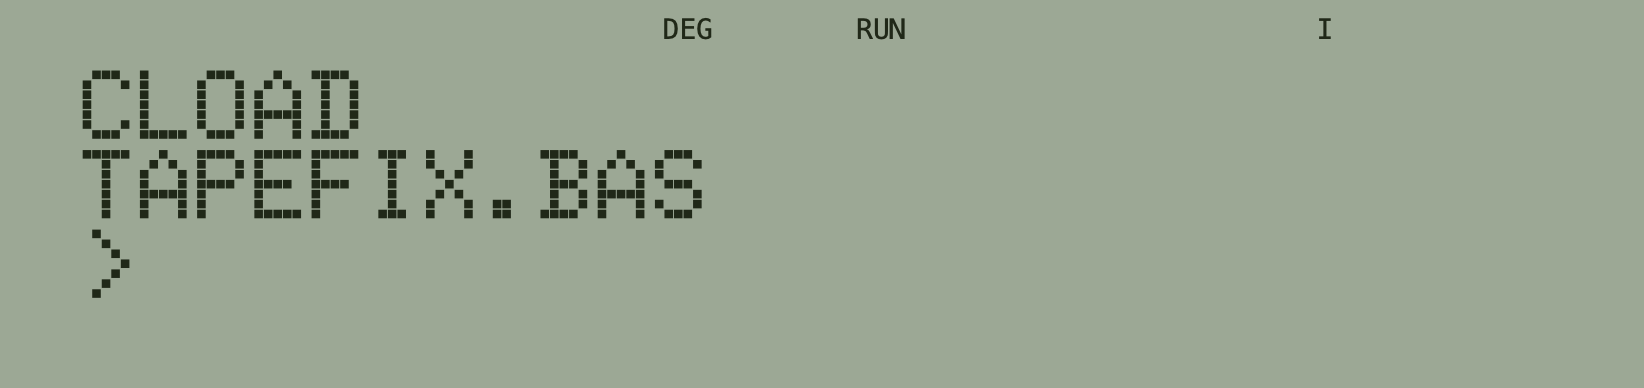
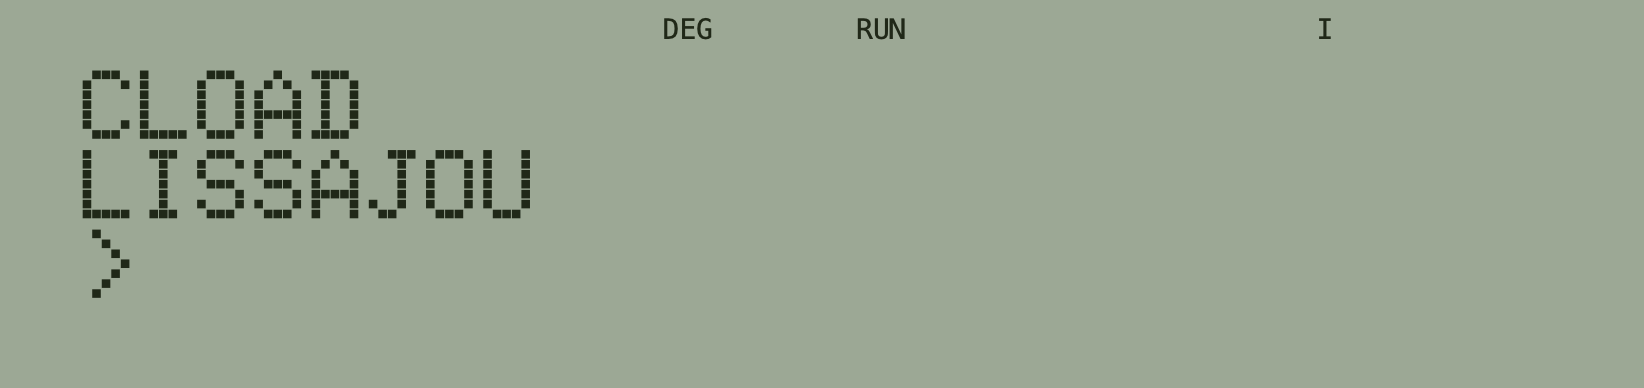
Docs: the cassette bay in the guide, plan, decisions; screenshots
User Guide 4 describes the bay (pick to play, save to record, saved at
each motor stop) with new screenshots that record and then play a tape;
Settings lists Storage > Tapes. Screenshots regenerated: the Tape group
shows wherever a CE-150 / CE-1600P is attached, and widens the window
to ~1758 px -- an open item in TODO.md.

Changed region(s): [[0.031, 0.3711, 0.4343, 0.5876]]

diff --git a/docs/background/plans/Tape-Bay-Plan.md b/docs/background/plans/Tape-Bay-Plan.md
@@ -1,0 +1,112 @@
+# Tape as control-bar media (like cards and floppies)
+
+> **Status (2026-10-04): implemented.** Differences from the plan below:
+> the scenario shot runner gained an `accept` step (and `select:` now also
+> emits `activated`), and the tape combo reacts to `activated`, so picking
+> the recording tape it already shows puts it in to play.
+
+
+## Context
+
+The cassette recorder works (CLOAD/CSAVE, verified against real PC-1500 and
+PC-1600 recordings), but it's armed through file dialogs (File ▸ Tape ▸
+Play… / Record… / Eject, also behind the control bar's Tape button). That's
+unlike the other media: memory cards and floppies are picked on the control
+bar from a fixed folder, with a one-line Name & Save. The dialog route also
+caused the focus problem fixed in 5110f1a. The user wants tapes to follow
+the media pattern:
+
+- A fixed **tape folder** with a row in Settings ▸ Storage; default
+  `<save folder>/Tapes` (e.g. `~/Calc-U-1600/Tapes`).
+- The bay starts **empty**. The **drop-down** lists the folder's WAVs;
+  picking one loads it **for playing** (CLOAD). A **Save** button asks for
+  a name (the floppy Name & Save one-liner) and loads a blank tape **for
+  recording** (CSAVE). An existing name asks, then overwrites.
+- **The role stays fixed**: a tape picked in the drop-down is play-only;
+  CSAVE never writes to it. The ▶/● counter already shows the role.
+- **Auto-save on motor-off**: when the remote relay stops the motor during
+  a recording, the WAV is written (whole). Eject only un-arms. While the
+  tape stays armed, each further CSAVE appends and is saved again at its
+  motor-off.
+- **File ▸ Tape is removed**, with its file dialogs. A future "File ▸ Load
+  WAV" fast load (needs WAV support in sde) is a separate feature.
+
+Tape behaviour otherwise stays as is: playback continues from where the
+motor stopped; a machine rebuild ejects (nothing is lost, since recordings
+are saved at each motor-off).
+
+## Core: `Core/Tape/TapeDeck.hpp`
+
+- `setMotor(false)` while recording with a path and unsaved samples →
+  write the whole recording (`writeWavMono16`). Keep a "saved up to
+  sample N" mark so a second motor-off without new data doesn't rewrite.
+- `eject()` → writes only if something is unsaved (e.g. Eject while the
+  motor still runs mid-CSAVE), then un-arms. Return value/`error` unchanged.
+- A failed auto-save can't return an error (it happens inside emulation):
+  store it as `lastError` in `Status`, cleared when read
+  (`takeLastError()`), so the GUI can show it once.
+- Machines: `PC1500Machine` / `PC1600Machine` `tapeStatus()` already lock;
+  add a locked `tapeTakeLastError()` beside `tapeEject()`.
+- CLIs (`--tape-out`) keep working; their final eject now usually finds
+  nothing unsaved.
+
+## GUI
+
+- **`Qt6/app/AppSettings.hpp` / `AppPaths.{hpp,cpp}`:** `tapeDirOverride`
+  setting, `AppPaths::tapeDir()` = override or `instanceDir()/Tapes`
+  (created on demand), following `instanceDir()` / `instanceDirOverride()`.
+  Remove `OpenFolder::Tape` and its General row.
+- **`Qt6/app/SettingsDialog.cpp`:** Storage gets a "Tapes:" path row (same
+  `PathRowSpec` as "Battery-card saves").
+- **New `Qt6/app/TapeManager.{hpp,cpp}`** (pattern: `FloppyDiskManager`):
+  - `tapeNames()`: the `*.wav` in `tapeDir()`, sorted, without extension.
+  - `selectForPlay(name)` → `controller->tapePlay(path)`; `""` →
+    `tapeEject()`.
+  - `recordNew(name, error)`: validates the name (same rules as Name &
+    Save: non-empty, file-name safe), returns "exists" so MainWindow can
+    ask; then `tapeRecord(path)`.
+  - Holds the current tape name and role for the combo; emits
+    `errorMessage` for write failures (polled `tapeTakeLastError()`).
+  - `MachineController::tapePlay/tapeRecord/tapeEject/tapeStatus` stay;
+    `discardMachine()` keeps ejecting (now cheap).
+- **`Qt6/app/ControlBar.{hpp,cpp}`:** replace the Tape menu button with
+  `Tape: [combo] [save button] ▶ 0:12 ●` (objectNames `controlbar.tape`,
+  `controlbar.tape.save`, `.counter`, `.lamp`), all `NoFocus`.
+  `setTapeCombo(names, selected)` via the existing `fillPicker()`
+  ("–empty–" first). While recording, the combo shows the recording tape's
+  name (added to the list if its file doesn't exist yet). Remove
+  `setTapeActions()`.
+- **`Qt6/app/MainWindow.{hpp,cpp}`:** wire combo → `selectForPlay`, save
+  button → `QInputDialog::getText` (as `floppyNameAndSaveRequested`),
+  "exists" → `QMessageBox::question` to replace. Refresh the combo after
+  each motor-off save and on `syncPeripherals()`. Remove File ▸ Tape,
+  `playTape/recordTape/ejectTape`, `ReturnFocusToCalculator`,
+  `syncTapeActions()`; `closeEvent` still ejects.
+
+## Docs and screenshots
+
+- `docs/User-Guide.md` §4 "Cassette tape": rewrite for the bar (pick a
+  tape to play, Save to record, auto-save at motor-off, append while armed,
+  fixed roles); Settings §9.1: "Tapes" under Storage instead of General.
+- `docs/developer/screenshots/guide/04-basic.shots.yaml`: the shot run uses
+  an empty save folder, so record first, then play: click
+  `controlbar.tape.save`, `enter-text` a name, `type: CSAVE`, `run`, then
+  `select: controlbar.tape = <name>`, `type: CLOAD`, capture. Regenerate
+  04 and 09 (Settings) images. Update the README's widget-name table.
+- `docs/background/Decisions.md`: tapes are fixed-role media; auto-save at
+  motor-off; eject only un-arms.
+- CHANGELOG entry adjusted (no File ▸ Tape).
+
+## Verification
+
+- `tools/run_tests.sh`: `tape_deck_tests` gains motor-off auto-save
+  (file written at motor-off, appended and rewritten at the next one, no
+  rewrite without new data, eject writes only unsaved data, write error
+  reported once); ROM tape tests unchanged.
+- `tools/build_app.sh` builds; both tape matrices still pass
+  (`dev/tape-matrix/run.py pc1500|pc1600`).
+- GUI via the 04-basic scenario (record → auto-saved file appears in the
+  combo → select → CLOAD shows the program) and by hand: Save over an
+  existing name asks; picking a tape while recording un-arms it (file
+  already saved); Settings ▸ Storage "Tapes" changes the list.
+- Commit to dev-0.8.0 in steps (Core, GUI, docs).

diff --git a/docs/User-Guide.md b/docs/User-Guide.md
@@ -287,22 +287,33 @@ Good to know:
 ### Cassette tape: CLOAD and CSAVE
 
 The CE-150 (PC-1500/1500A) and the CE-1600P (PC-1600) have the jacks of a
-cassette recorder. In the app the recorder plays and records WAV files.
-You put a tape in, then type the command as on the real machine:
+cassette recorder. In the app its tapes are WAV files in the tape folder
+(Settings ▸ Storage ▸ Tapes, `~/Calc-U-1600/Tapes` by default), and the
+cassette bay sits on the control bar while a CE-150 or CE-1600P is
+attached. It starts empty. You put a tape in, then type the command as on
+the real machine:
 
-- **File ▸ Tape ▸ Play…** (or the **Tape** button on the control bar) puts
-  a WAV in the recorder. Type `CLOAD`, `CLOAD "name"`, `CLOAD M` or
-  `CLOAD?`.
-- **File ▸ Tape ▸ Record…** puts in a blank tape and asks where its WAV
-  goes. Type `CSAVE "name"` (or `CSAVE M`). The WAV is written when you
-  choose **Eject**. Switching the model or ROM, loading a preset, or
-  quitting ejects the tape too, so a recording is never lost.
+- **To load,** pick a tape from the **Tape** list. It goes in rewound.
+  Type `CLOAD`, `CLOAD "name"`, `CLOAD M` or `CLOAD?`. A second `CLOAD`
+  reads on from where the first one stopped, as on a real tape.
+- **To save,** click the save button next to the list and name the new
+  tape, as with Name & Save for cards and disks. Type `CSAVE "name"` (or
+  `CSAVE M`). The tape is written to `<name>.wav` each time the motor
+  stops, so a finished `CSAVE` is saved at once. Another `CSAVE` onto the
+  same tape goes after it. If a tape of that name exists, you're asked
+  before it is replaced.
 
-The Tape button appears while a CE-150 or CE-1600P is attached. Next to
-it, the counter shows ▶ (playing) or ● (recording) and the tape position,
-and the lamp lights while the motor runs:
+![Naming a new tape](images/guide/04-tape-save.png)
 
-![CLOAD running: the tape counter and the motor lamp](images/guide/04-tape-loading.png)
+A tape keeps its role: one picked from the list only plays, a new one only
+records. To play back what you recorded, pick it from the list; that also
+takes the recording tape out. "–empty–" takes a tape out. The counter
+shows ▶ (playing) or ● (recording) and the tape position, and the lamp
+lights while the motor runs:
+
+![CSAVE running onto a new tape](images/guide/04-tape-recording.png)
+
+![CLOAD running from the same tape, picked from the list](images/guide/04-tape-loading.png)
 
 ![The program loaded from the tape](images/guide/04-tape-loaded.png)
 
@@ -316,9 +327,11 @@ Good to know:
   holding the LCD runs everything faster as usual, sound off; the WAV comes
   out the same.
 - **Interchangeable WAVs.** The files are standard 48 kHz, 16-bit WAVs.
-  The app plays any PCM WAV, 8 to 32 bits, mono or stereo: recordings of a
-  real calculator, or files made with Pocket Tools' `bin2wav` and read with
-  its `wav2bin`.
+  The app plays any PCM WAV, 8 to 32 bits, mono or stereo, that you put in
+  the tape folder: recordings of a real calculator, or files made with
+  Pocket Tools' `bin2wav` and read with its `wav2bin`.
+- **The buzzer sounds the tape** while saving and loading, as on the real
+  machines.
 - **Leave a long lead-in.** After switching on the motor the calculator
   waits about half a second for the recorder, then needs a few seconds of
   lead-in tone. A tape made with `bin2wav` therefore needs `-s 3` (a 3 s
@@ -806,10 +819,11 @@ elsewhere. Changes apply immediately; there is only **Close**.
     Program… and Load Machine Code… open. `<last used>` by default.
   - **Host drive folder:** where Mount Directory… opens. `<last used>` (the
     directory last mounted) by default.
-  - **Tape folder:** where Tape ▸ Play… and Record… open. `<last used>` by
-    default.
 - **Default presets:** one per model, see [Startup presets](#88-startup-presets).
 - **Storage ▸ Battery-card saves:** where saved modules and disks go.
+- **Storage ▸ Tapes:** the cassette tapes' folder (see
+  [Cassette tape](#cassette-tape-cload-and-csave)); `Tapes` inside the save
+  folder by default.
 - **Tracing:** where CPU traces go, and the size at which a trace stops.
 - **Serial ports:** where the serial port files go, and their current paths
   (see [COM ports](#7-com-ports)).

diff --git a/docs/developer/screenshots/README.md b/docs/developer/screenshots/README.md
@@ -96,6 +96,7 @@ captures the whole window. More captures can go in `steps:` as
 | `close` | Close the topmost popup, dialog, or native menu. |
 | `choose-file: <path>` | Pick that file (relative to the scenario) in the open file dialog and accept it, e.g. after `action: File > Load Machine Code…`. In a Save dialog (`File > Tape > Record…`) the file may not exist yet; its folder must. |
 | `enter-text: <text>` | Type into the text field of the open dialog, e.g. a name in Name & Save. |
+| `accept` | Accept the open dialog (its OK button), e.g. after `enter-text`. |
 | `capture: …` | Write an image; see below. |
 
 A dialog opened by `action:` or `click:` stays open and scriptable: the
@@ -165,7 +166,7 @@ Two macOS details:
 | `controlbar.slot1`, `controlbar.slot2`, `controlbar.slot1.save`, `controlbar.slot2.save` | module pickers and their Name & Save buttons |
 | `controlbar.ce150`, `controlbar.ce158`, `controlbar.ce1600p`, `controlbar.ce1600p.rom` | peripheral toggles, CE-1600P ROM picker |
 | `controlbar.floppy`, `controlbar.floppy.side`, `controlbar.floppy.save`, `controlbar.floppy.lamp` | CE-1600F disk row |
-| `controlbar.tape`, `controlbar.tape.counter`, `controlbar.tape.lamp` | cassette recorder (with a CE-150 or CE-1600P) |
+| `controlbar.tape`, `controlbar.tape.save`, `controlbar.tape.counter`, `controlbar.tape.lamp` | cassette bay: tape picker, Save, counter, motor lamp (with a CE-150 or CE-1600P) |
 | `debugpanel`, `debugpanel.pointers`, `debugpanel.dumpmem`, `debugpanel.dumpcard`, `debugpanel.clear`, `debugpanel.trace` | Debug panel and its buttons |
 | `paper`, `paper.copy`, `paper.cut` | plotter paper panel |
 | `ce158printer`, `ce158printer.save`, `ce158printer.clear` | CE-158 printer panel |

diff --git a/CHANGELOG.md b/CHANGELOG.md
@@ -5,16 +5,18 @@
 ### New
 
 - **Cassette tape: CLOAD and CSAVE.** The CE-150 (PC-1500/1500A) and the
-  CE-1600P (PC-1600, MODE 0) now drive a cassette recorder that plays and
-  records WAV files: **File ▸ Tape ▸ Play… / Record… / Eject**, or the Tape
-  button on the control bar with its counter and motor lamp. The
+  CE-1600P (PC-1600, MODE 0) now drive a cassette recorder. Its tapes are
+  WAV files in a tape folder (Settings ▸ Storage ▸ Tapes): pick one on the
+  control bar to `CLOAD` it, or name a new one with the save button to
+  `CSAVE` onto it -- saved each time the motor stops, further `CSAVE`s
+  appended. A counter and a motor lamp show what the tape does. The
   calculator's own ROM does the bit timing, the remote relay runs the tape,
   and the tape runs in emulated time, so turbo doesn't change the WAV.
   The WAVs work with Pocket Tools' `bin2wav` / `wav2bin` (give `bin2wav`
-  `-s 3` or `-l 0x400`); the headless CLIs take `--tape-in` / `--tape-out`. Not yet:
-  the PC-1600 reading PC-1500 tapes in MODE 1, and the CE-150 on a PC-1600.
-  As on the real machines, the buzzer sounds the tape while saving and
-  loading.
+  `-s 3` or `-l 0x400`) and with real recordings; the headless CLIs take
+  `--tape-in` / `--tape-out`. As on the real machines, the buzzer sounds
+  the tape while saving and loading. Not yet: the PC-1600 reading PC-1500
+  tapes in MODE 1, and the CE-150 on a PC-1600.
 
 ### Fixed
 

diff --git a/docs/background/Decisions.md b/docs/background/Decisions.md
@@ -70,6 +70,17 @@ counts as high while no tape interface drives it. It doesn't synthesize
 BEEP tones, because the user wants the actual square wave. New sound
 sources drive `PiezoSampler::setLevel` from their emulated signal.
 
+### Tapes are fixed-role media, saved at each motor stop
+The cassette bay works like the card and disk pickers (TapeManager): a
+tape picked from the tape folder's list only plays; one named with the
+save button only records, and goes back in to play only by picking it from
+the list. That is deliberate: nothing records over a tape picked to load
+it. A recording is written (whole) each time the remote relay stops the
+motor, so a finished CSAVE is on disk at once and taking the tape out only
+un-arms it; while it stays in, further CSAVEs are appended. The tape combo
+reacts to `activated`, so picking the tape it already shows still puts it
+in to play (rewound).
+
 ### The cassette tape moves only while the remote relay runs it
 `TapeDeck` advances by emulated CPU cycles, and only while the interface's
 remote relay is closed: CE-150 PA1-PA4 pulses (either REMOTE 0 or 1), or

diff --git a/TODO.md b/TODO.md
@@ -345,6 +345,13 @@ CE-1600P (docs/background/plans/Cassette-Tape-Plan.md, dev/tape-matrix/).
   the LH5803 and drives ME1 F004H-F00FH, which `LH5803SharedMemory` keeps
   as a plain latch. How that block reaches the SC-7852's SD0/PB2 (pin 76:
   `SD0 = OR(SD0', PC7')`, SD0' = "CE-150 cassette output") is undocumented.
+- **Control bar too wide with a tape interface.** With a CE-150 or
+  CE-1600P attached, the cassette bay (Tape picker, save button, counter,
+  lamp) widens the PC-1600's control bar to ~1758 px (1430 without it), more
+  than a 13-14" MacBook screen (1440-1512 points). Dropping the "Tape:"
+  label and narrowing the picker only gets to ~1690. Options: a second row
+  for the media (Disk, Tape) while one is attached; or narrower pickers
+  everywhere. Undecided.
 - **Real-hardware cross-check, remaining half:** `CLOAD` an emulator
   `CSAVE` WAV on the real units (PC-1500 + CE-150, PC-1600 + CE-1600P).
   The other half is done (2026-10-04): real `CSAVE` recordings of both

diff --git a/docs/background/README.md b/docs/background/README.md
@@ -42,6 +42,7 @@ with a status note on how the implementation differed. New plans go into
 | [Copy Screen: the LCD as text](plans/Copy-Screen-Text-Plan.md) | 2026-10-03 | Implemented |
 | [Pre-execution snapshots: history and trace](plans/Pre-Execution-Snapshots-Plan.md) | 2026-10-04 | Implemented |
 | [Cassette CLOAD / CSAVE via WAV files](plans/Cassette-Tape-Plan.md) | 2026-10-04 | Implemented for PC-1500 + CE-150 and PC-1600 MODE 0; MODE 1 `CLOAD` open in TODO.md |
+| [Tape as control-bar media](plans/Tape-Bay-Plan.md) | 2026-10-04 | Implemented |
 
 ## Handoffs
 

diff --git a/docs/background/plans/Cassette-Tape-Plan.md b/docs/background/plans/Cassette-Tape-Plan.md
@@ -15,6 +15,9 @@
 >   BREAK all the time.
 > - **CE-1600P port 82H reads back its latch.** The tape driver
 >   read-modify-writes it; open bus (FFH) would have pulsed both relay coils.
+> - **Later replaced** by the cassette bay on the control bar
+>   ([Tape-Bay-Plan.md](Tape-Bay-Plan.md)): the File ▸ Tape menu below is
+>   gone.
 > - No separate `TapeController`: `MainWindow` handles File ▸ Tape (Play…,
 >   Record…, Eject), and the control-bar Tape button shows the same actions.
 >   The menu items also make the flow scriptable for screenshots.
